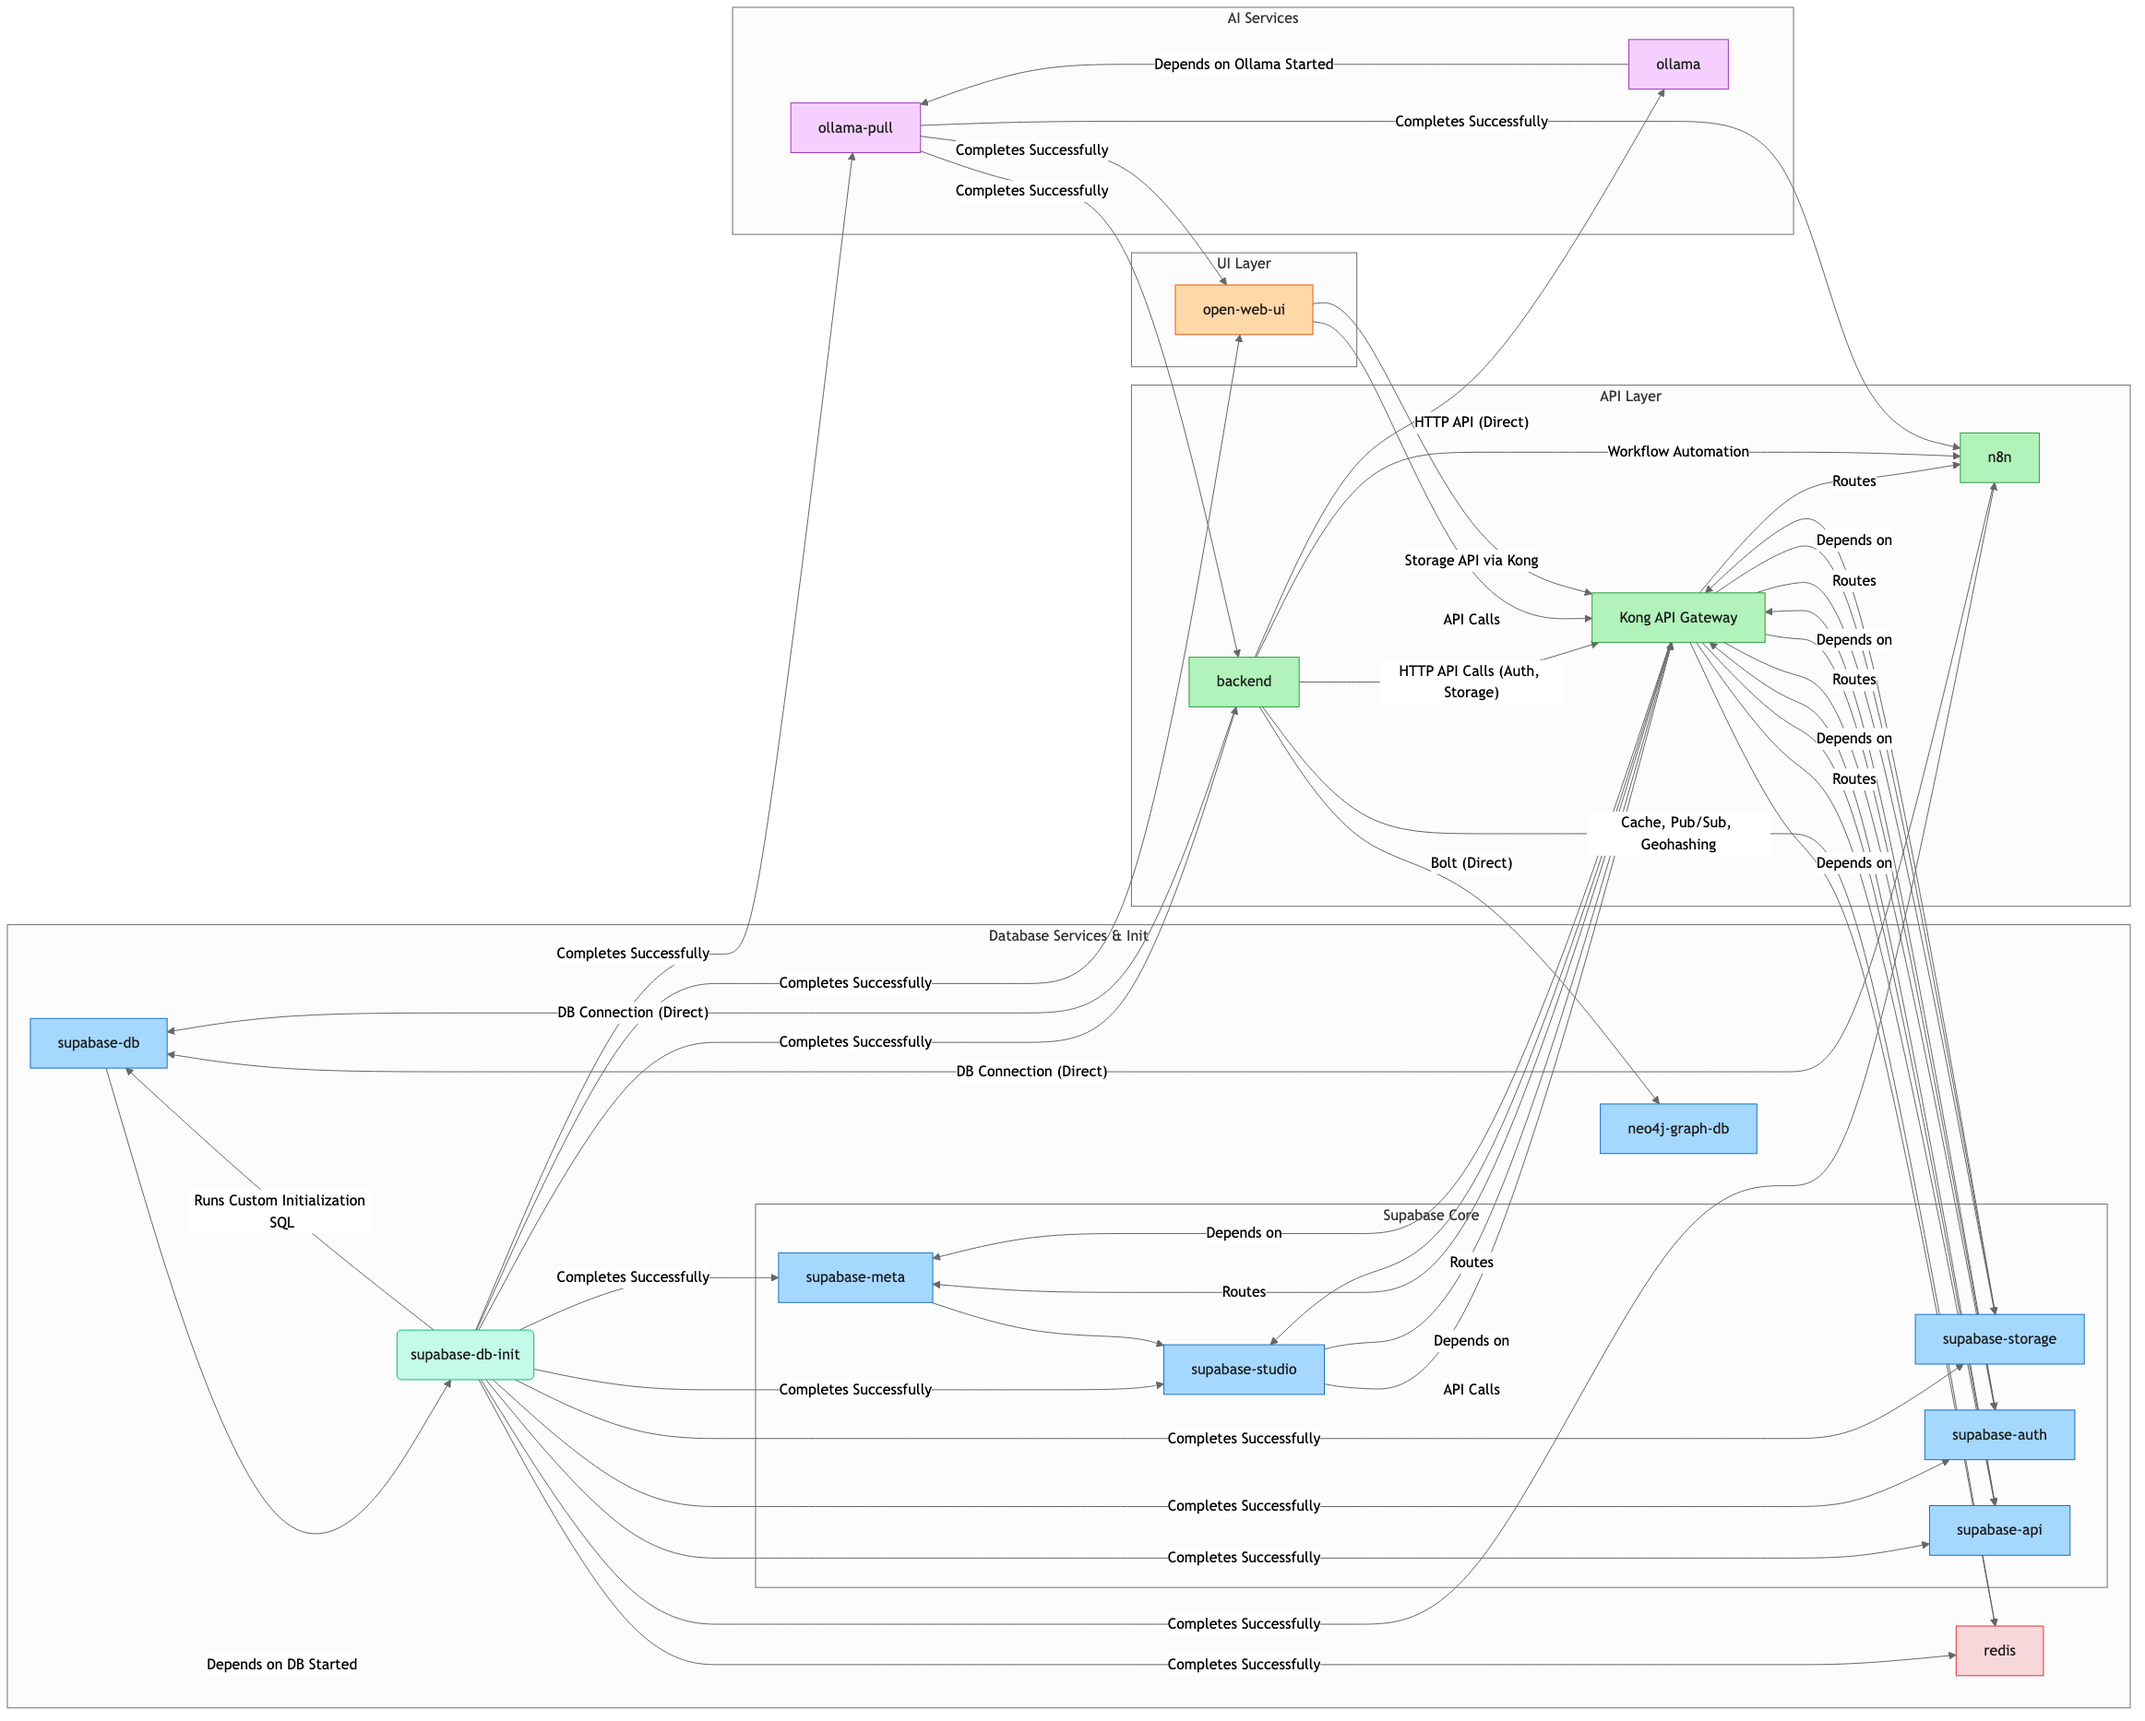
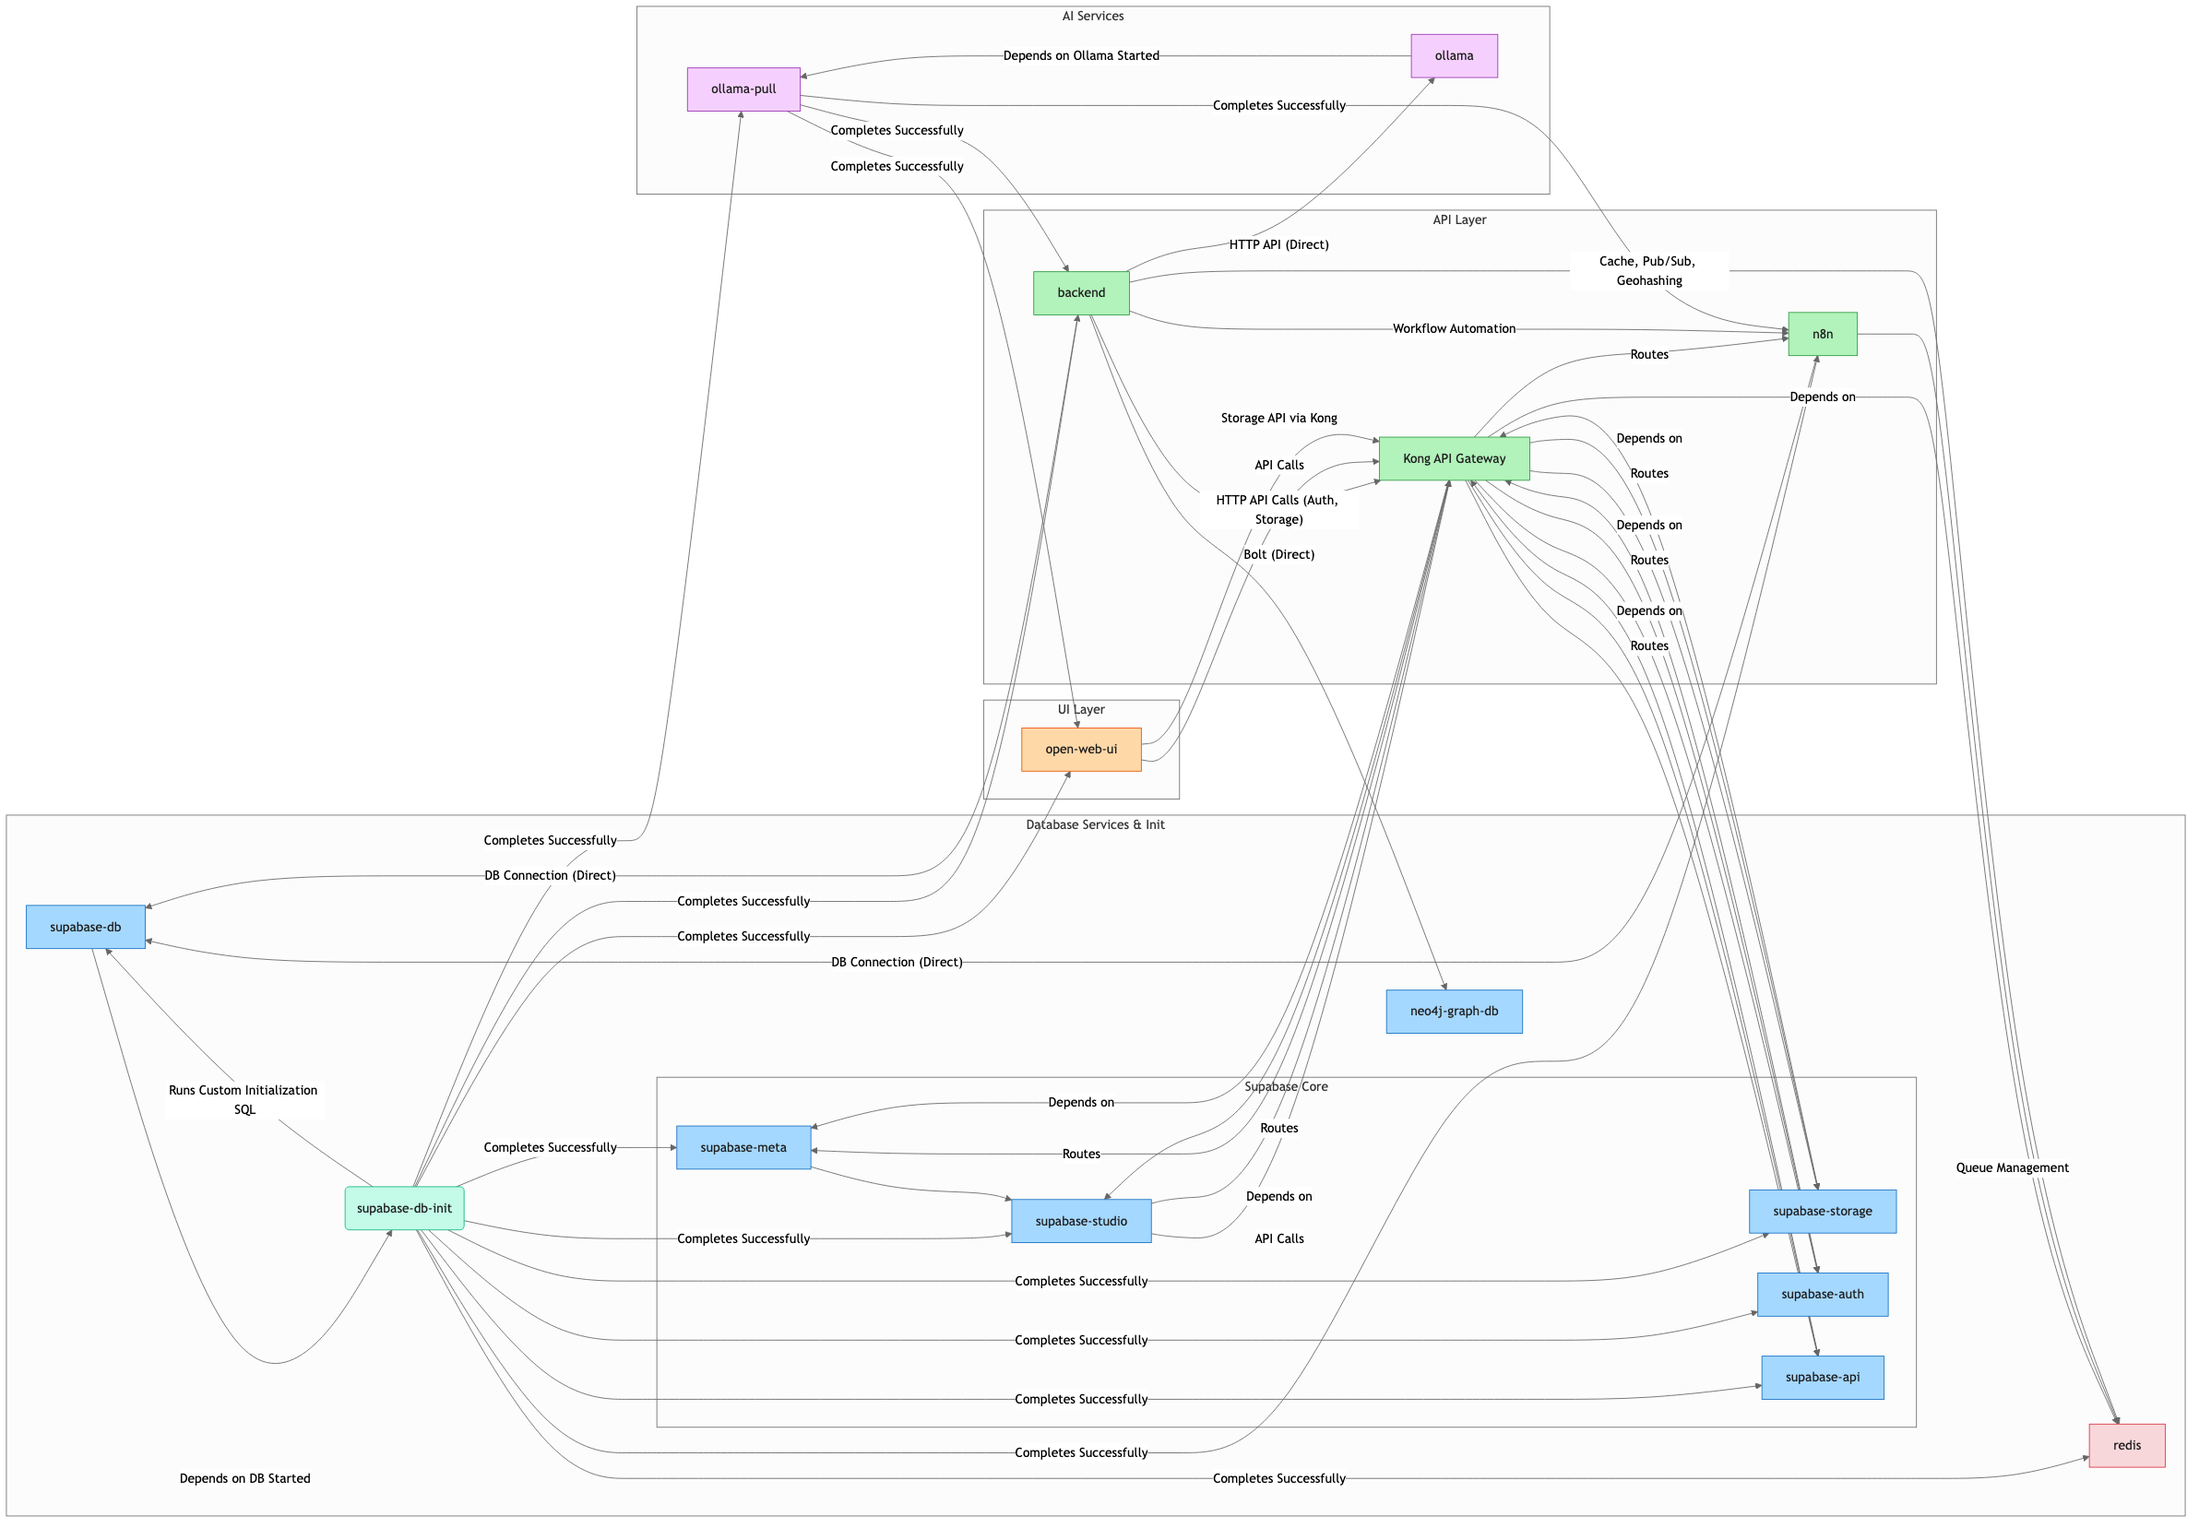
adds redis use for the n8n service

diff --git a/README.md b/README.md
@@ -738,19 +738,70 @@ The backend service is configured to use Redis for:
 - **Pub/Sub**: Enabling real-time messaging between components
 - **Geohashing**: Supporting geospatial operations and queries
 
-## 14. TODO – Future Candidate Services
+## 14. n8n Workflow Automation Service
+
+The n8n service provides a powerful workflow automation platform that can be used to create, schedule, and monitor automated workflows.
+
+### 14.1. Overview
+
+- **Image**: Uses the official `n8nio/n8n:latest` image
+- **Database**: Uses the Supabase PostgreSQL database for storing workflows and execution data
+- **Queue Management**: Uses Redis for workflow execution queueing
+- **Authentication**: Protected with basic authentication
+- **Port**: Available at `http://localhost:${N8N_PORT}` (configured via `N8N_PORT`)
+- **Dependencies**: Starts after the successful completion of the `supabase-db-init` and `ollama-pull` services
+
+### 14.2. Features
+
+- **Visual Workflow Editor**: Create workflows with a drag-and-drop interface
+- **Node-Based Architecture**: Connect different services and actions using nodes
+- **Scheduling**: Run workflows on a schedule or trigger them based on events
+- **Error Handling**: Configure retry logic and error workflows
+- **Credentials Management**: Securely store and manage credentials for various services
+- **Extensibility**: Create custom nodes for specific use cases
+
+### 14.3. Integration with Other Services
+
+- **Backend Service**: The backend service can trigger n8n workflows for tasks like data processing, notifications, and more
+- **Supabase PostgreSQL**: n8n uses the Supabase database for storing workflows and execution data
+- **Redis**: n8n uses Redis for queue management, improving reliability and scalability of workflow executions
+
+### 14.4. Configuration
+
+The n8n service can be configured through the following environment variables:
+
+- `N8N_PORT`: The port on which n8n is accessible (default: 63014)
+- `N8N_ENCRYPTION_KEY`: The encryption key used to secure credentials and other sensitive data
+- `N8N_AUTH_ENABLED`: Whether authentication is enabled (default: true)
+- `N8N_BASIC_AUTH_ACTIVE`: Whether basic authentication is active (default: true)
+- `N8N_BASIC_AUTH_USER`: The username for basic authentication
+- `N8N_BASIC_AUTH_PASSWORD`: The password for basic authentication
+- `N8N_HOST`: The hostname for n8n (default: localhost)
+- `N8N_PROTOCOL`: The protocol for n8n (default: http)
+- `N8N_PATH`: The base path for n8n (default: /)
+- `N8N_EXECUTIONS_MODE`: The execution mode for n8n (default: queue)
+
+### 14.5. Usage Examples
+
+n8n can be used for a wide variety of automation tasks, including:
+
+- **Data Processing**: Automatically process and transform data from various sources
+- **Notifications**: Send notifications to Slack, email, or other channels based on events
+- **Scheduled Tasks**: Run tasks on a schedule, such as nightly vector database refreshes
+- **API Integrations**: Connect to external APIs to fetch or send data
+- **Conditional Logic**: Create complex workflows with conditional branching
+- **Error Handling**: Configure retry logic and error workflows
+
+## 15. TODO – Future Candidate Services
 
 | Service | Purpose | Benefits | Effort |
 |---------|---------|----------|--------|
 | **Supabase Realtime** | Logical-replication → WebSocket change-feeds | 📡 Pushes DB updates to UI/backend without polling; powers presence channels | Medium |
-| **n8n** | Low-code workflow/ETL/cron orchestrator | 🛠 Automates nightly vector refresh, Slack alerts, SaaS integrations | Medium |
 
-### 14.1 Planned Roll-out Order
+### 15.1 Planned Roll-out Order
 1. **Supabase Realtime** – add `supabase/realtime`, configure `wal_level=logical`, create replication slot, expose `/realtime/v1` via Kong, consume channels in Open Web UI & backend.
-2. **n8n** – add `n8n` service with own Postgres DB (or reuse Supabase), secure with basic auth/OIDC, route triggers through Kong, craft starter workflows (vector re-index, health alerts).
 
-### 14.2 Why These Services?
+### 15.2 Why This Service?
 * **Supabase Realtime** piggybacks on existing Postgres to deliver live updates without third-party services.
-* **n8n** provides a no-code automation layer, letting ops & data tasks evolve without backend changes.
 
 > The table and reasoning should help contributors understand the roadmap and rationalize PRs around these additions.
